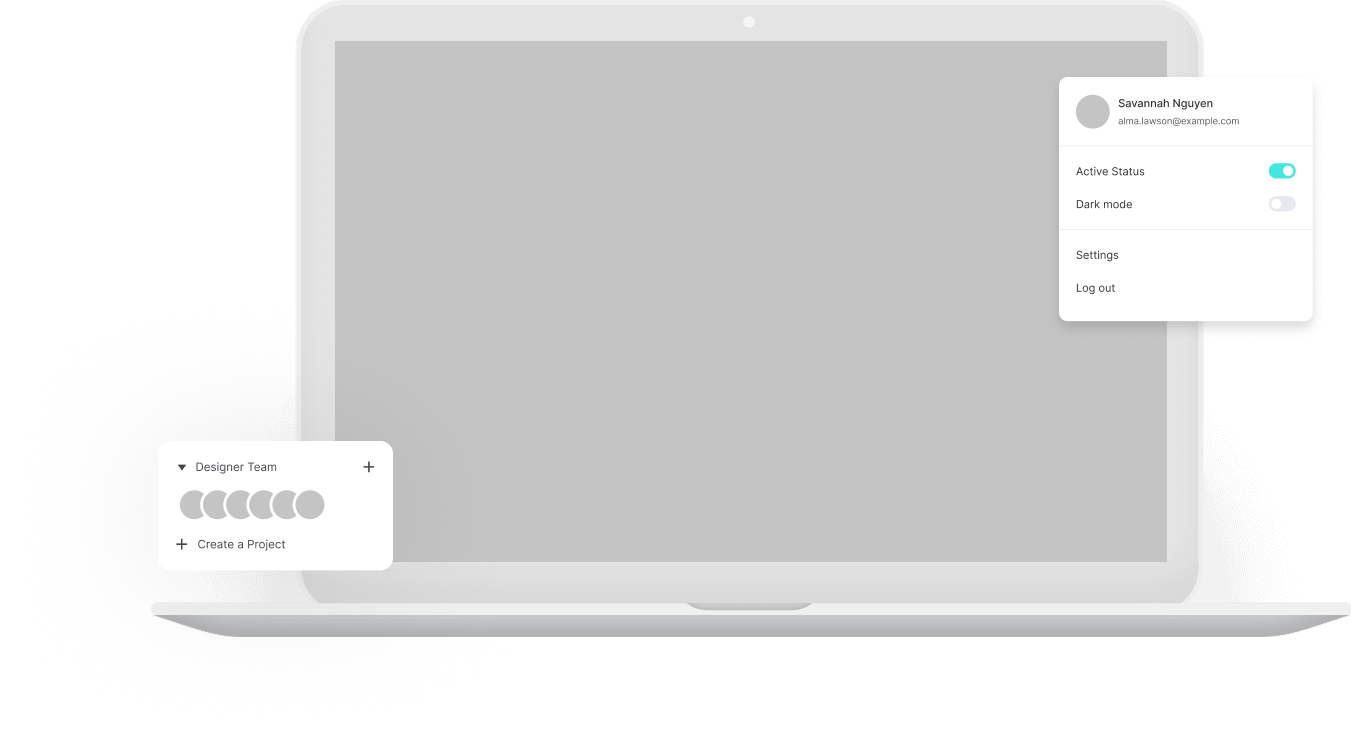
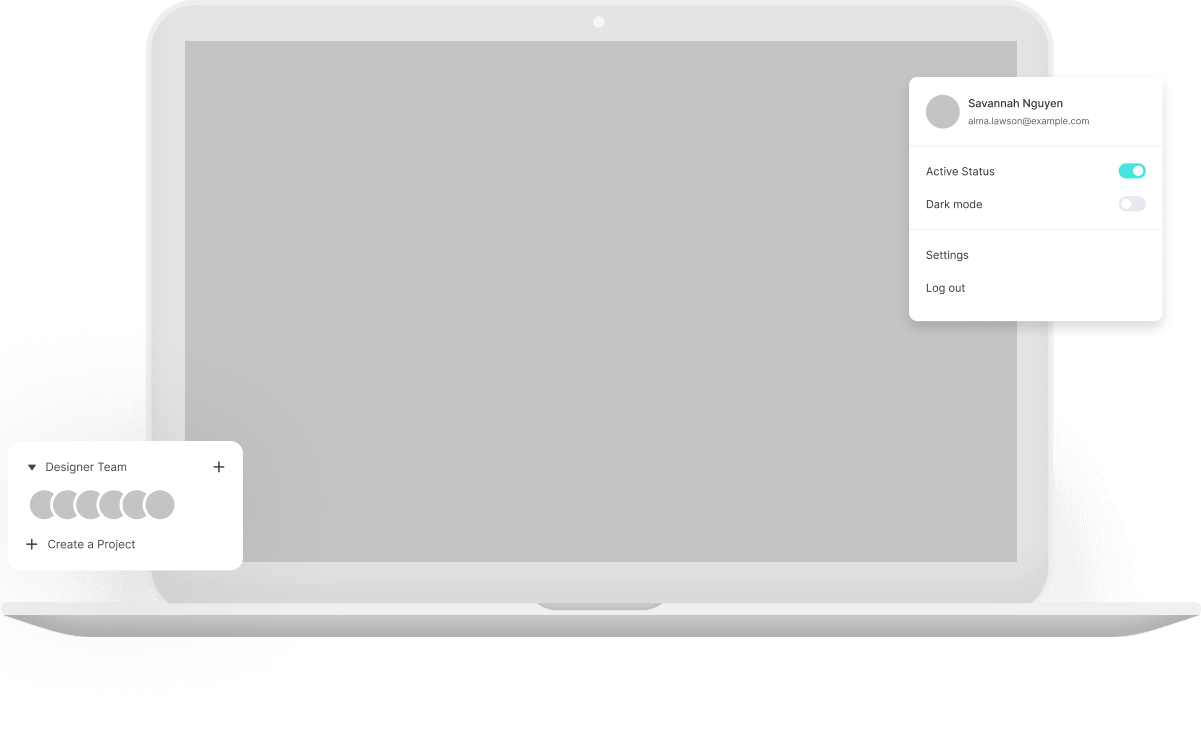
Add new assets and components for About Us and Footer sections
- Added various PNG assets including icons and logos.
- Implemented AboutUs component with testimonials and ratings.
- Created Footer component with subscription form and company information.

diff --git a/src/components/Footer/Footer.jsx b/src/components/Footer/Footer.jsx
@@ -1,0 +1,76 @@
+import React from 'react'
+import Container from '../Layout/Container'
+import cta from '../../assets/cta.png'
+import logo2 from '../../assets/logo2.png'
+import gicon from '../../assets/gicon.png'
+import tweeticon from '../../assets/tweeticon.png'
+import instaicon from '../../assets/instaicon.png'
+import inicon from '../../assets/inicon.png'
+
+
+const Footer = () => {
+    return (
+        <section>
+            <Container>
+                <div>
+                    <div className='py-[100px] px-[102px] rounded-[40px] bg-no-repeat bg-cover bg-center'
+                        style={{ backgroundImage: `url(${cta})` }}>
+                        <div className='flex justify-between items-center'>
+                            <h1 className='max-w-[577px] font-primary font-bold text-white text-[44px]'>Don’t find the answer? contact us for any query.</h1>
+                            <button className='font-secondary font-lg font-medium py-5 px-12 bg-secondary rounded-[6px]'>Register</button>
+                        </div>
+                    </div>
+                    <div className='flex justify-between items-center mt-[124px]'>
+                        <div>
+                            <img src={logo2} alt="#logo2" />
+                            <p className='mt-[26px] mb-6 font-secondary text-pera text-[16px] leading-7 max-w-[263px]'>Build a modern and creative website with Innovate.</p>
+                            <div className='flex gap-2'>
+                                <img src={gicon} alt="#gicon" />
+                                <img src={tweeticon} alt="#tweeticon" />
+                                <img src={instaicon} alt="#instaicon" />
+                                <img src={inicon} alt="#inicon" />
+                            </div>
+                        </div>
+                        <div className='flex items-center gap-[100px] mb-[86px]'>
+                            <ul>
+                                <h4 className='font-secondary text-pera text-[18px] leading-8 font-medium'>Product</h4>
+                                <li className='font-secondary text-[16px] leading-[26px] mt-5'>Landingpages</li>
+                                <li className='font-secondary text-[16px] leading-[26px] mt-[12px]'>Pricing</li>
+                                <li className='font-secondary text-[16px] leading-[26px] mt-[12px]'>Benefits</li>
+                                <li className='font-secondary text-[16px] leading-[26px] mt-[12px]'>Features</li>
+                            </ul>
+                            <ul>
+                                <h4 className='font-secondary text-pera text-[18px] leading-8 font-medium'>Company</h4>
+                                <li className='font-secondary text-[16px] leading-[26px] mt-5'>About</li>
+                                <li className='font-secondary text-[16px] leading-[26px] mt-[12px]'>Privacy Policy</li>
+                                <li className='font-secondary text-[16px] leading-[26px] mt-[12px]'>Terms & Conditions</li>
+                                <li className='font-secondary text-[16px] leading-[26px] mt-[12px]'>Partners</li>
+                                <li className='font-secondary text-[16px] leading-[26px] mt-[12px]'>Contact</li>
+                            </ul>
+                            <ul>
+                                <h4 className='font-secondary text-pera text-[18px] leading-8 font-medium'>Resources</h4>
+                                <li className='font-secondary text-[16px] leading-[26px] mt-5'>Guides and resources</li>
+                                <li className='font-secondary text-[16px] leading-[26px] mt-[12px]'>Blog</li>
+                                <li className='font-secondary text-[16px] leading-[26px] mt-[12px]'>Tools</li>
+                                <li className='font-secondary text-[16px] leading-[26px] mt-[12px]'>Support</li>
+                            </ul>
+                        </div>
+                        <div>
+                            <h4 className='font-secondary text-pera text-[18px] leading-8 font-medium'>Get Latest Updates</h4>
+                            <p className='mt-[18px] mb-[32px] font-secondary text-pera text-[16px] leading-[26px] max-w-[285px]'>Subscribe to our newsletter and get many interesting things every week</p>
+                            <div className='relative'>
+                                <input type="text" className='w-[269px] h-[46px] bg-[#f7f7fc] rounded-[6px] mb-[98px]  outline-0' placeholder='Your Email Address' />
+                                <button className='absolute top-[5px] right-[22px]  font-secondary font-lg font-medium h-9 w-9 bg-primary rounded-[6px]'>hvj</button>
+                            </div>
+                        </div>
+                    </div>
+                    <div className='border-t-2 border-[#D2D2D2]'>
+                        <p className='mt-[24px] mb-[30px]'>© 2024 Innovate - All Right Reserved</p>
+                    </div>
+                </div>
+            </Container>
+        </section>
+    )
+}
+
+export default Footer

diff --git a/src/components/AboutUs/AboutUs.jsx b/src/components/AboutUs/AboutUs.jsx
@@ -1,0 +1,68 @@
+import React from 'react'
+import Container from '../Layout/Container'
+import { FontAwesomeIcon } from '@fortawesome/react-fontawesome'
+import { faStar } from '@fortawesome/free-solid-svg-icons'
+
+const AboutUs = () => {
+    return (
+        <section className='py-[200px] bg-[#F4FAFA]'>
+            <Container>
+                <div className='flex justify-between'>
+                    <div>
+                        <div>
+                            <h2 className='max-w-[594px] font-primary font-bold text-[46px] leading-[58px] text-tittle'>What they are talking about us?</h2>
+                            <p className='max-w-[503px] mt-5 mb-10 font-secondary text-[18px] leading-[32px] text-pera'>testimonials are evidence of customers talking about your product or service in their own words. At their best, they are authentic, descriptive.</p>
+                            <button className='bg-[#3639a4] text-white font-secondary font-bold text-lg leading-[32px] py-[20px] px-12 rounded-[10px]'>Get Started</button>
+                        </div>
+                        <div className='flex mt-[80px] gap-[120px]'>
+                            <div className='relative'>
+                                <div className='h-[58px] w-[58px] bg-[#C4C4C4] border-2 border-white rounded-full'></div>
+                                <div className='absolute top-0 left-[25px] h-[58px] w-[58px] bg-[#C4C4C4] border-2 border-white rounded-full'></div>
+                                <div className='absolute top-0 left-[50px] h-[58px] w-[58px] bg-[#C4C4C4] border-2 border-white rounded-full'></div>
+                                <div className='absolute top-0 left-[75px] h-[58px] w-[58px] bg-[#C4C4C4] border-2 border-white rounded-full'></div>
+                            </div>
+                            <div>
+                                <div className='flex items-center'>
+                                    <h5 className='font-primary text-[24px] leading-9 text-[#52C5B6]'>4.5</h5>
+                                    <span className='ml-[8px] mr-[17px] text-[#DADBE2]'>|</span>
+                                    <div>
+                                        <FontAwesomeIcon icon={faStar} style={{ color: "#FFD43B", }} />
+                                        <FontAwesomeIcon icon={faStar} style={{ color: "#FFD43B", }} />
+                                        <FontAwesomeIcon icon={faStar} style={{ color: "#FFD43B", }} />
+                                        <FontAwesomeIcon icon={faStar} style={{ color: "#FFD43B", }} />
+                                        <FontAwesomeIcon icon={faStar} style={{ color: "#FFD43B", }} />
+                                    </div>
+                                </div>
+                                <p className='font-secondary text-pera text-[18px] leading-8'>280k Total Review</p>
+                            </div>
+                        </div>
+
+                    </div>
+                    <div className='relative mt-[107px]'>
+                        <div className='absolute top-[-80px] left-[48px]'>
+                            <div className='h-[124px] w-[124px] bg-[#C4C4C4] border-8 border-[#F7F7FC] rounded-full'></div>
+                        </div>
+                        <div className='bg-white max-w-[687px] rounded-[20px] shadow-[10px_10px_130px_rgba(0,0,0,0.07)] pt-[64px] px-[60px]'>
+                            <p className='max-w-[567px] mt-5 mb-10 font-secondary text-[22px] leading-[44px] text-pera'>“Wow. Amazing company amazing Expert Manager. They know how to get things done when it comes to online trading. </p>
+                            <div className='flex items-center'>
+                                <div>
+                                    <h5 className='font-primary font-bold text-[24px] leading-9 text-[#30344E]'>Robert Fox</h5>
+                                    <p className='pb-[50px]'>Digital Marketer</p>
+                                </div>
+                                <div className='ml-[258px] mb-[51px]'>
+                                    <FontAwesomeIcon icon={faStar} style={{ color: "#FFD43B", }} />
+                                    <FontAwesomeIcon icon={faStar} style={{ color: "#FFD43B", }} />
+                                    <FontAwesomeIcon icon={faStar} style={{ color: "#FFD43B", }} />
+                                    <FontAwesomeIcon icon={faStar} style={{ color: "#FFD43B", }} />
+                                    <FontAwesomeIcon icon={faStar} style={{ color: "#FFD43B", }} />
+                                </div>
+                            </div>
+                        </div>
+                    </div>
+                </div>
+            </Container>
+        </section>
+    )
+}
+
+export default AboutUs

diff --git a/src/components/Banner/Banner.jsx b/src/components/Banner/Banner.jsx
@@ -11,12 +11,12 @@ const Banner = () => {
                     <p className='font-secondary text-lg w-[467px] m-auto leading-[32px] py-5 mb[32px] text-amber-50'>The world's first project management platform that connects everything</p>
                     <div className='relative mt-8'>
                         <input type="text" className='w-[480px] py-5 pl-7 bg-amber-50 rounded-[6px] mb-[98px]  outline-0' placeholder='Your business email' />
-                        <a className='absolute top-[5px] right-[472px]  font-secondary font-lg font-medium py-[15px] px-7 bg-secondary rounded-[6px]'>Try for free</a>
+                        <button className='absolute top-[5px] right-[472px]  font-secondary font-lg font-medium py-[15px] px-7 bg-secondary rounded-[6px]'>Try for free</button>
                     </div>
                 </div>
             </Container>
         </div>
-        <div className='absolute bottom-[-165px] left-0'>
+        <div className='absolute bottom-[-165px] left-[160px]'>
             <img src={laptop} alt="#laptop" />
         </div>
         </section>

diff --git a/src/components/Header/Header.jsx b/src/components/Header/Header.jsx
@@ -1,12 +1,16 @@
 import React from 'react'
 import bannerShape from '../../assets/bgshape.png'
+import Container from '../Layout/Container'
 
-const Header = ({children}) => {
+const Header = ({ children }) => {
   return (
-    <div className="bg-cover bg-no-repeat bg-center"
-    style={ {
-      backgroundImage: `url(${bannerShape})`
-    }}>{children}</div>
+    <section>
+      <div className="bg-cover bg-no-repeat bg-center"
+        style={{
+          backgroundImage: `url(${bannerShape})`
+        }}>{children}</div>
+
+    </section>
   )
 }
 

diff --git a/src/App.jsx b/src/App.jsx
@@ -7,6 +7,8 @@ import Integrate from "./components/Integrate/Integrate"
 import Service from "./components/Service/Service"
 import Customer from "./components/Customer/Customer"
 import Pricing from "./components/Pricing/Pricing"
+import AboutUs from "./components/AboutUs/AboutUs"
+import Footer from "./components/Footer/Footer"
 function App() {
 
 
@@ -22,6 +24,8 @@ function App() {
       <Service />
       <Customer />
       <Pricing />
+      <AboutUs />
+      <Footer />
     </>
 
 
